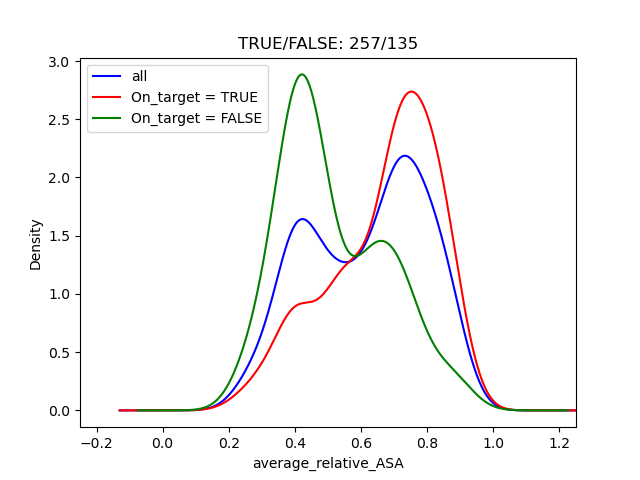
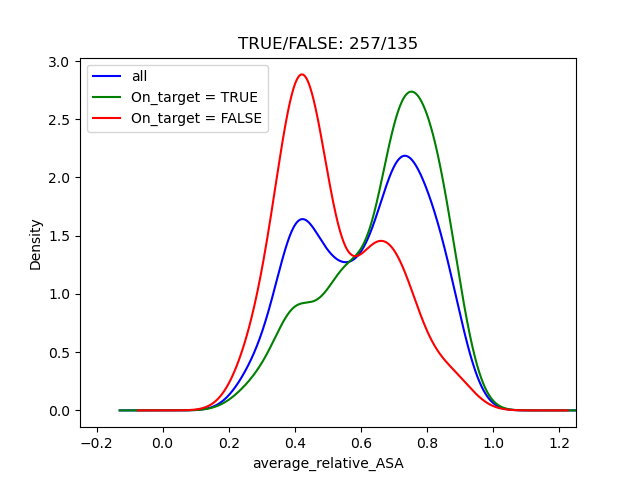
debug

diff --git a/scripts/analyze_results.py b/scripts/analyze_results.py
@@ -109,8 +109,8 @@ def main():
     for value in value_columns:
         for type in ["Specific", "On_target", "Off_target"]:
             ax = df.loc[:,[value]].plot(kind="density", color="blue")
-            df[df[type] == "TRUE"].loc[:,[value]].plot(kind="density", ax = ax, color="red")
-            df[df[type] == "FALSE"].loc[:,[value]].plot(kind="density", ax = ax, color="green")
+            df[df[type] == "TRUE"].loc[:,[value]].plot(kind="density", ax = ax, color="green")
+            df[df[type] == "FALSE"].loc[:,[value]].plot(kind="density", ax = ax, color="red")
             ax.set_title("TRUE/FALSE: {}/{}".format(df[df[type] == "TRUE"].shape[0], df[df[type] == "FALSE"].shape[0]))
             #ax.text(0.8,0.80, "FALSE: {}".format(df[df[type] == "FALSE"].shape[0]))
             #ax.text(0.8,0.60, "TRUE: {}".format(df[df[type] == "TRUE"].shape[0]))
